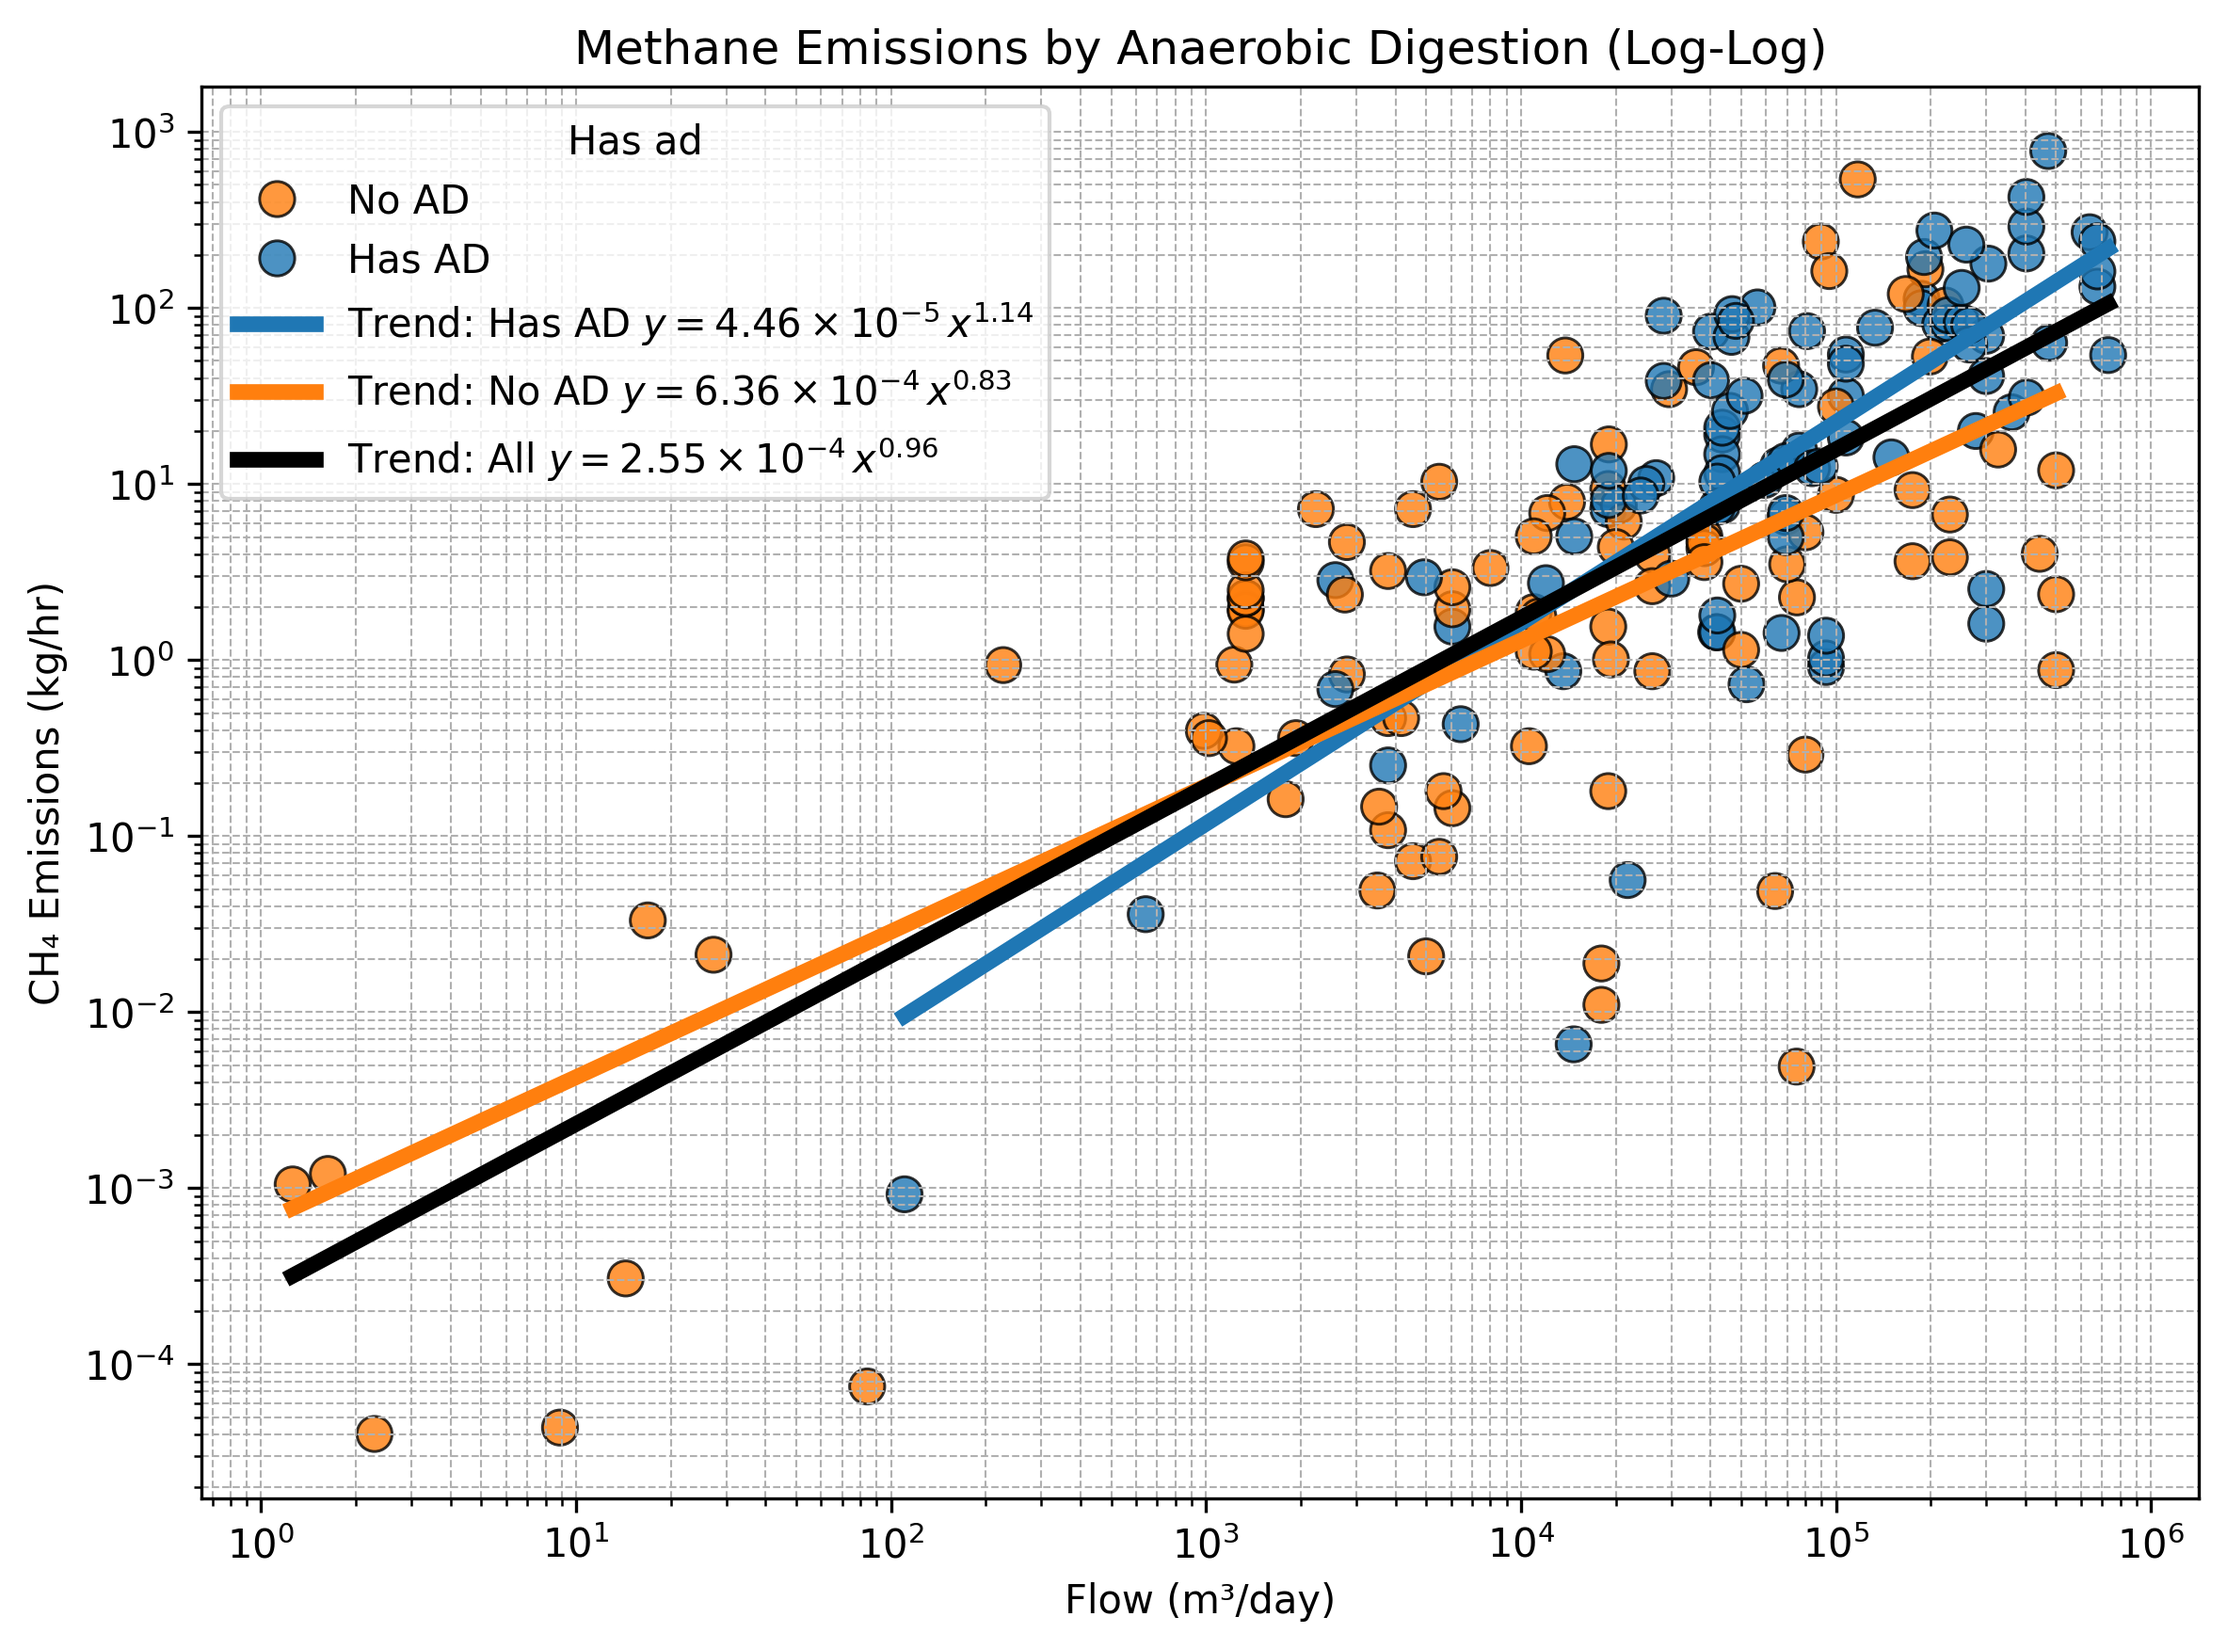
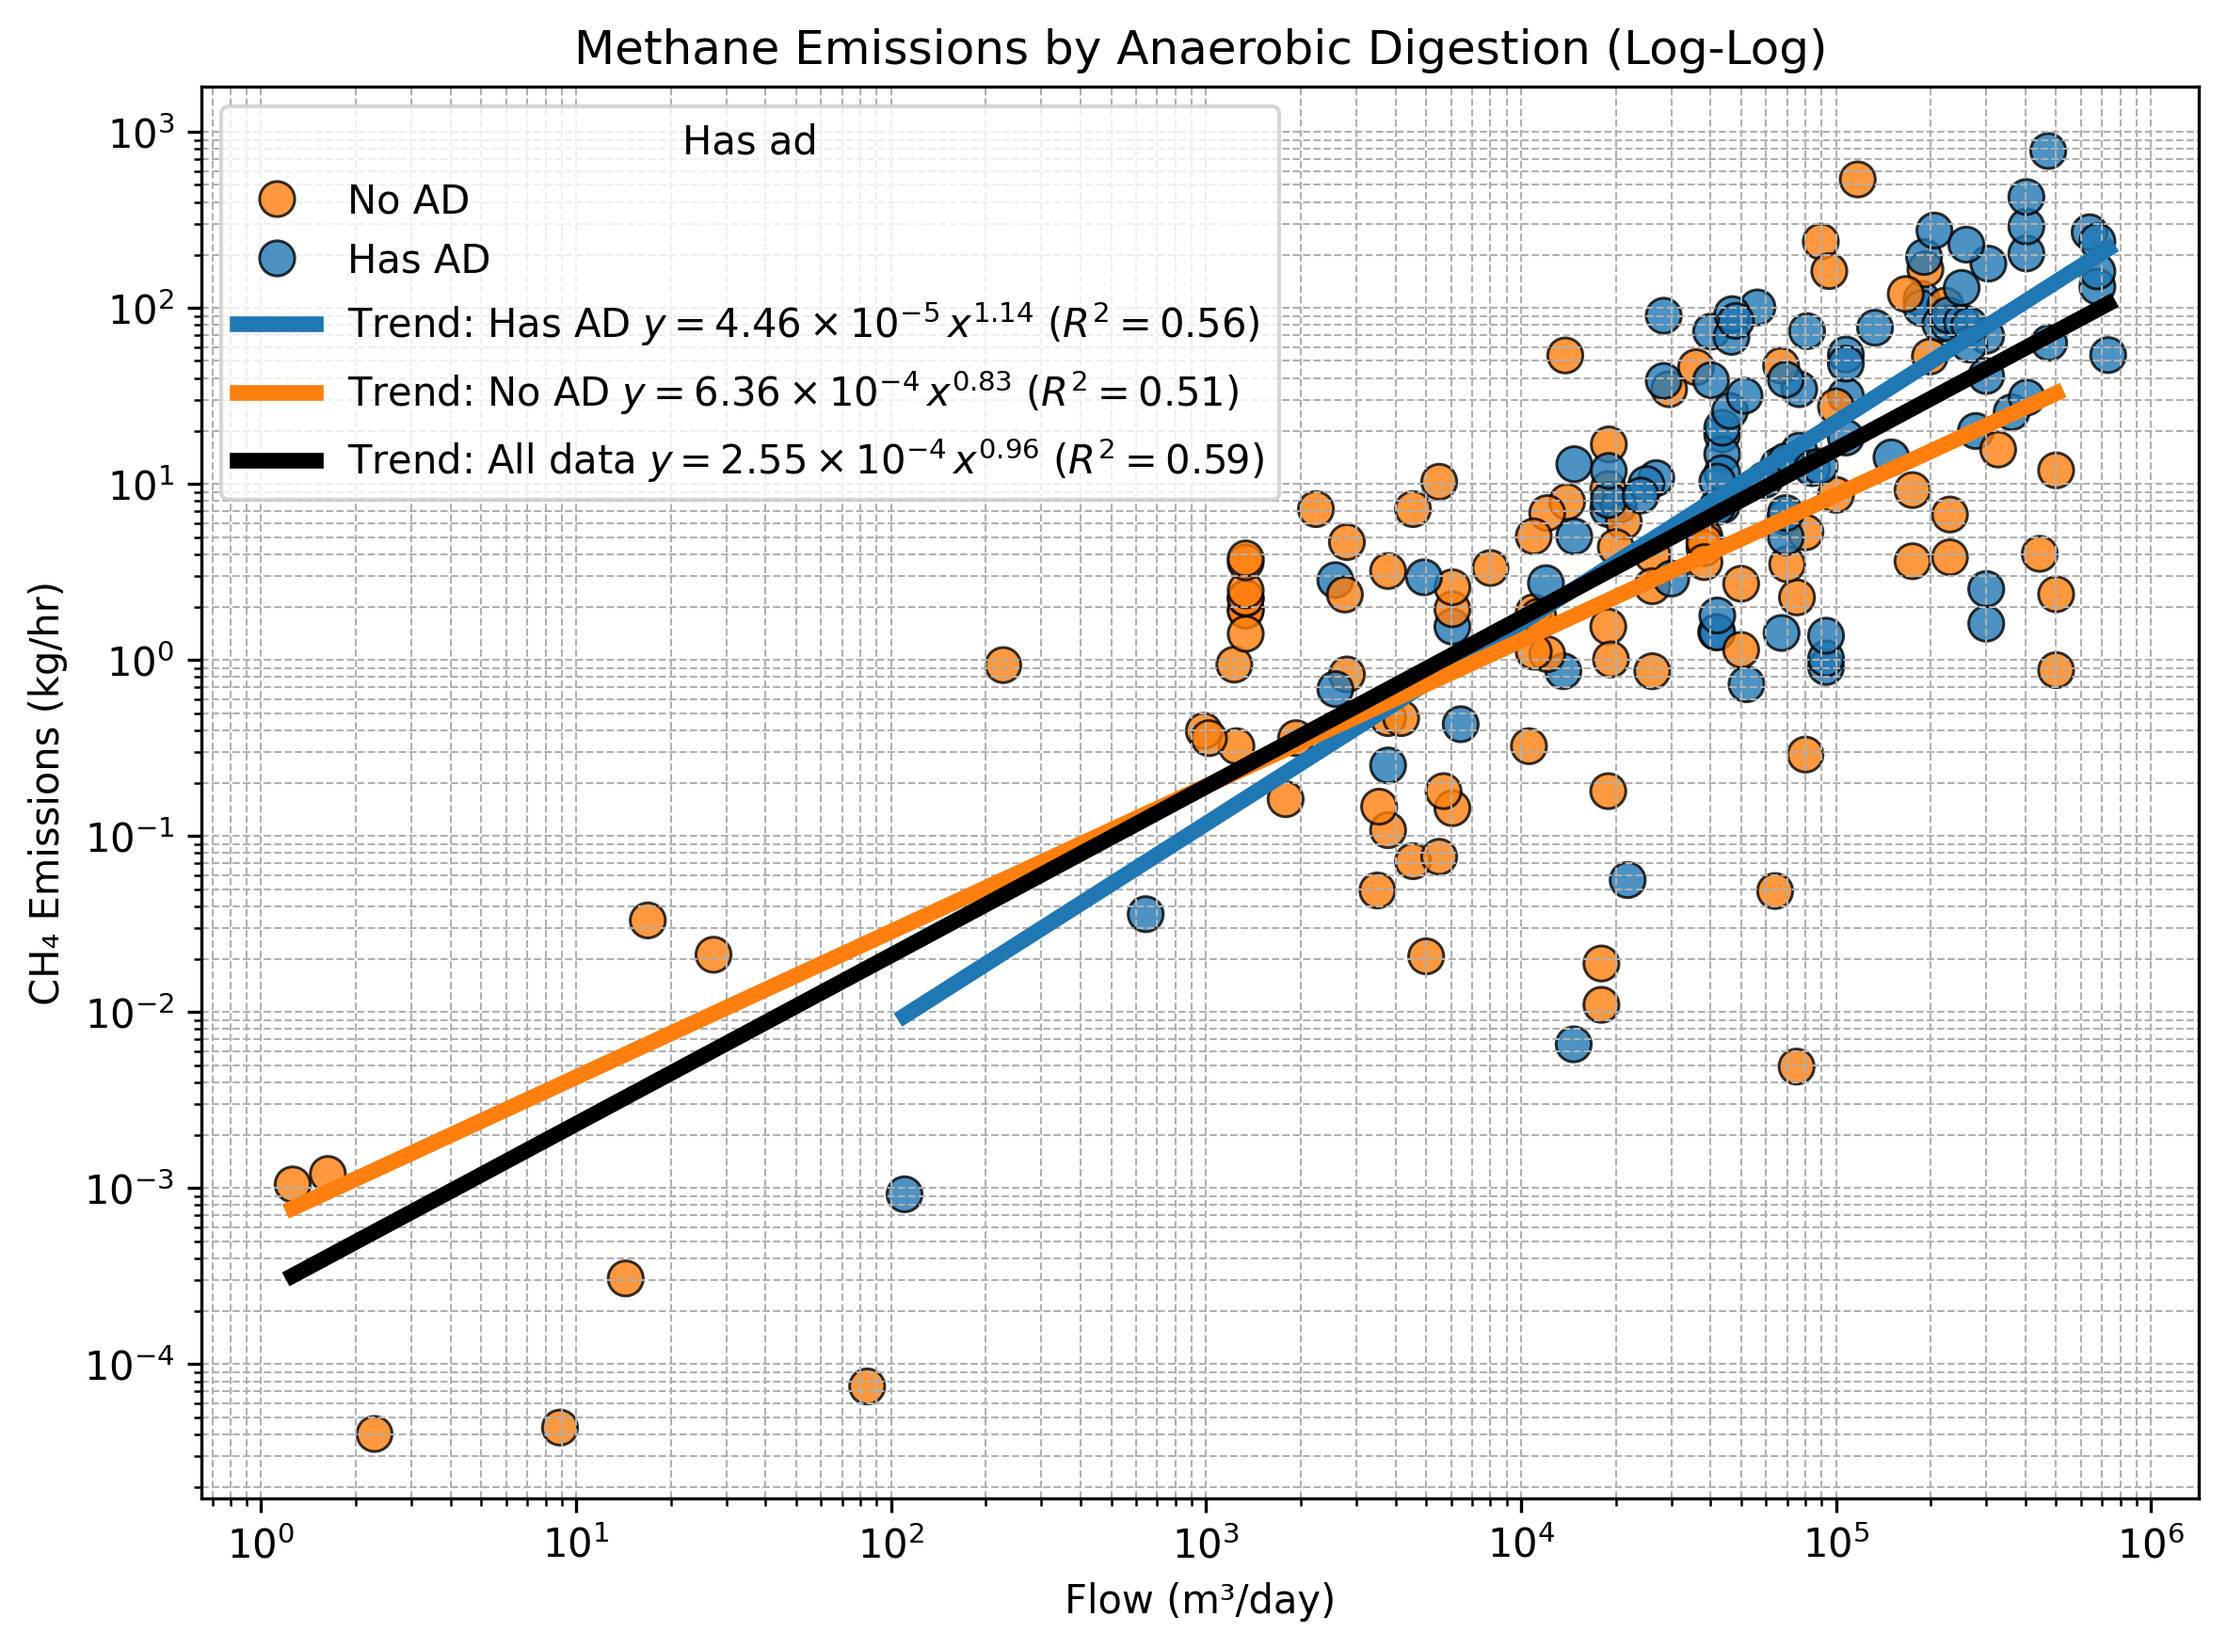
Add trendlines to 2a, 2b

diff --git a/Fig2b_production_normalized_vs_flow.py b/Fig2b_production_normalized_vs_flow.py
@@ -7,6 +7,7 @@ import seaborn as sns
 import pathlib
 from a_my_utilities import set_chini_dataset, calc_biogas_production_rate, load_ch4_emissions_with_ad_only, calculate_production_normalized_ch4
 import matplotlib.ticker as mtick
+from scipy.stats import linregress
 
 chini_data = pd.read_csv(pathlib.Path("02_clean_data", "chini_cleaned.csv"))  # or csv
 
@@ -32,62 +33,88 @@ measurement_data_ad = measurement_data_ad[
 # Plotting
 
 # Custom group labels
-measurement_data_ad['source_group'] = (
-    measurement_data_ad['source']
-    .fillna('')  # avoid errors if source is NaN
-    .apply(lambda x: (
-        'Moore et al., 2023' if 'Moore' in x
-        else 'Fredenslund et al., 2023' if 'Fredenslund et al., 2023' in x
-        else 'Song et al., 2023 (compilation)'
-    ))
-)
+# Uncomment for color based on source data (also uncomment hue='source_group' below)
+# measurement_data_ad['source_group'] = (
+#     measurement_data_ad['source']
+#     .fillna('')  # avoid errors if source is NaN
+#     .apply(lambda x: (
+#         'Moore et al., 2023' if 'Moore' in x
+#         else 'Fredenslund et al., 2023' if 'Fredenslund et al., 2023' in x
+#         else 'Song et al., 2023 (compilation)'
+#     ))
+# )
 
 # Custom palette
-palette = {
-    'Moore et al., 2023': '#E24A33',
-    'Fredenslund et al., 2023': '#226f90',
-    'Song et al., 2023 (compilation)': '#999999',
-}
+# palette = {
+#     'Moore et al., 2023': '#E24A33',
+#     'Fredenslund et al., 2023': '#226f90',
+#     'Song et al., 2023 (compilation)': '#999999',
+# }
 
-# Plot
+# Fit data mask once (positive + finite)
+x = measurement_data_ad['flow_m3_per_day'].to_numpy()
+y = measurement_data_ad['production_normalized_CH4_percent'].to_numpy()
+mask = np.isfinite(x) & np.isfinite(y) & (x > 0) & (y > 0)
+x, y = x[mask], y[mask]
+
+# Power-law fit in log–log space
+logx, logy = np.log(x), np.log(y)
+res = linregress(logx, logy)
+b = float(res.slope)
+a = float(np.exp(res.intercept))
+r2 = float(res.rvalue**2)
+
+# Smooth x for plotting the fitted curve
+xfit = np.geomspace(x.min(), x.max(), 200)
+yfit = a * xfit**b
+
+# Helper for nice scientific notation in legend
+def _sci_tex(num, precision=2):
+    s = f"{num:.{precision}e}"
+    base, exp = s.split("e")
+    return rf"{base} \times 10^{{{int(exp)}}}"
+
+# Build legend label in percent units (y-axis is percent)
+a_tex_pct = _sci_tex(100 * a, 2)  # label only; model unchanged
+eqn = rf"$y(\%) = {a_tex_pct}\,x^{{{b:.2f}}}$ (R$^2$={r2:.2f})"
+
+# ---------- Plot ----------
 plt.figure(figsize=(8, 6))
+
 sns.scatterplot(
     data=measurement_data_ad,
     x='flow_m3_per_day',
     y='production_normalized_CH4_percent',
-    hue='source_group',
-    palette=palette,
     edgecolor='k',
     s=80
 )
 
-# Log scales
 plt.xscale('log')
 plt.yscale('log')
 
-# Format y-axis as percent
-ax = plt.gca()
+# Plot the fitted trendline
+plt.plot(xfit, yfit, lw=3.5, color="black", label=f"Trend: {eqn}")
 
-def percent_formatter(y, _):
-    pct = y * 100
+# Percent formatter for y-axis
+ax = plt.gca()
+def percent_formatter(val, _):
+    pct = val * 100
     if pct >= 1:
         return f"{pct:.0f}%"
     elif pct >= 0.1:
         return f"{pct:.1f}%"
     else:
         return f"{pct:.2f}%"
-
 ax.yaxis.set_major_formatter(percent_formatter)
 
-# Labels and layout
 plt.xlabel("Flow (m³/day)")
 plt.ylabel("Production Normalized CH₄ Emissions (%)")
 plt.title("Production Normalized Methane Emissions vs. Flow Rate (AD Only)")
 plt.grid(True, which='both', linestyle='--', linewidth=0.5)
-plt.legend(title='Source')
+plt.legend()
 plt.tight_layout()
 
-# Save with AD-specific filename
+# Save & show (single figure)
 save_path = pathlib.Path("03_figures", "Figure_2b.png")
 plt.savefig(save_path, dpi=300, bbox_inches='tight')
 plt.show()

diff --git a/Fig2a_measurement_data.py b/Fig2a_measurement_data.py
@@ -132,7 +132,7 @@ def plot_emissions_vs_flow(
 
     def _fit_and_plot(x, y, label, color):
         fit = _powerlaw_fit(x, y)
-        a, b = fit["a"], fit["b"]
+        a, b, r2 = fit["a"], fit["b"], fit["r2_loglog"]
 
         # Smooth curve across the data span
         xv = np.asarray(x, dtype=float)
@@ -142,7 +142,8 @@ def plot_emissions_vs_flow(
         # Legend with LaTeX superscripts and sci notation
         a_tex = _format_sci_tex(a, legend_precision)
         eqn = rf"$y = {a_tex}\,x^{{{b:.2f}}}$"
-        ax.plot(xfit, yfit, linewidth=linewidth, color=color, label=f"Trend: {label} {eqn}")
+        r2_text = rf"$R^{2}={r2:.2f}$"
+        ax.plot(xfit, yfit, linewidth=linewidth, color=color, label=f"Trend: {label} {eqn} ({r2_text})")
 
         return fit
 
@@ -172,7 +173,7 @@ def plot_emissions_vs_flow(
     fit_all = _fit_and_plot(
         filtered['flow_m3_per_day'],
         filtered['ch4_kg_per_hr'],
-        "All",
+        "All data",
         "black"
     )
     coeffs_out["All"] = fit_all
